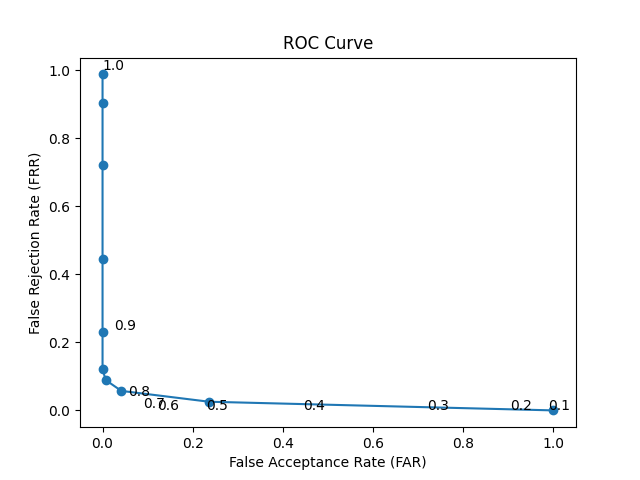
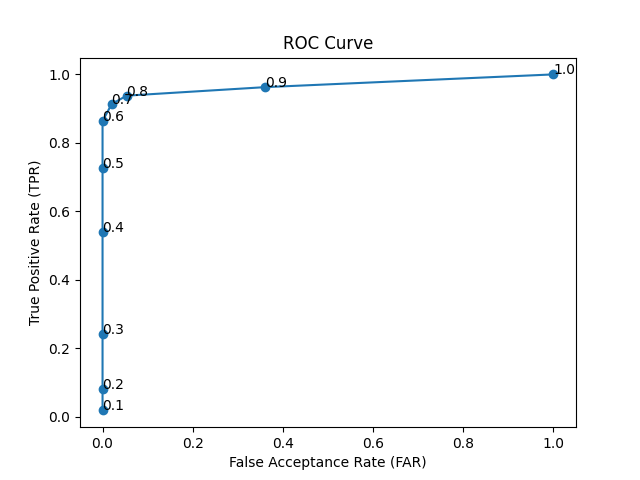
test 6

diff --git a/tools/test6.py b/tools/test6.py
@@ -1,22 +1,23 @@
 import asyncio
+import itertools as it
+import os
 from dataclasses import dataclass
 from random import choice
-import httpx
-import os
-import tqdm
-import itertools as it
-from faker import Faker
-from pathlib import Path
-from dotenv import load_dotenv
-from PersonsDataset import PersonDataset
-from helptools import register_user, login_user, clear_data
-import numpy as np
+
 import matplotlib.pyplot as plt
+import numpy as np
+import tqdm
+from dotenv import load_dotenv
+from faker import Faker
+
+from helptools import clear_data, login_user, register_user
+from PersonsDataset import PersonDataset
 
 load_dotenv()
 REGISTER_API_URL = "http://localhost:8000/register"
 LOGIN_API_URL = "http://localhost:8000/login"
 TOKEN = os.getenv("TOKEN")
+
 
 @dataclass
 class User:
@@ -25,6 +26,7 @@ class User:
     id: str
     register_imgs: list
     login_imgs: list
+
 
 async def register(dataset):
     fake = Faker()
@@ -36,17 +38,18 @@ async def register(dataset):
         register_imgs = images[3:]
         login_imgs = images[:3]
 
-        user = User(first_name, last_name, '', register_imgs, login_imgs)
+        user = User(first_name, last_name, "", register_imgs, login_imgs)
 
         response = await register_user(
             images=register_imgs, first_name=first_name, last_name=last_name
         )
 
-        user_id = response.json()['id']
+        user_id = response.json()["id"]
         user.id = user_id
-        
+
         users.append(user)
     return users
+
 
 async def test_correct_auth(users):
     results = []
@@ -56,6 +59,7 @@ async def test_correct_auth(users):
         results.append(result.json())
 
     return results
+
 
 async def test_incorrect_auth(users):
     results = []
@@ -70,19 +74,22 @@ async def test_incorrect_auth(users):
 
     return results
 
+
 def get_frr(auths, threshold):
     FR = 0
     for auth in auths:
-        if auth['score'] > threshold:
+        if auth["score"] > threshold:
             FR += 1
-    return FR/len(auths)
+    return FR / len(auths)
+
 
 def get_far(auths, threshold):
     FA = 0
     for auth in auths:
-        if auth['score'] <= threshold:
+        if auth["score"] <= threshold:
             FA += 1
-    return FA/len(auths)
+    return FA / len(auths)
+
 
 async def main():
     await clear_data()
@@ -104,18 +111,20 @@ async def main():
 
     far_values = [far[t] for t in sorted_thresh]
     frr_values = [frr[t] for t in sorted_thresh]
+    tpr_values = [1 - frr[t] for t in sorted_thresh]
 
     plt.figure()
-    plt.plot(far_values, frr_values, marker='o')
+    plt.plot(far_values, tpr_values, marker="o")
     plt.xlabel("False Acceptance Rate (FAR)")
-    plt.ylabel("False Rejection Rate (FRR)")
+    plt.ylabel("True Positive Rate (TPR)")
     plt.title("ROC Curve")
 
     for i, t in enumerate(sorted_thresh):
-        plt.annotate(f"{t:.1f}", (frr_values[i], far_values[i]))
+        plt.annotate(f"{t:.1f}", (far_values[i], tpr_values[i]))
 
     plt.savefig("roc_curve.png")
     plt.close()
+
 
 if __name__ == "__main__":
     asyncio.run(main())

diff --git a/tools/helptools.py b/tools/helptools.py
@@ -1,12 +1,8 @@
-import asyncio
-import httpx
 import os
-import tqdm
-import itertools as it
-from faker import Faker
 from pathlib import Path
+
+import httpx
 from dotenv import load_dotenv
-from PersonsDataset import PersonDataset
 
 load_dotenv()
 REGISTER_URL = "http://localhost:8000/register"
@@ -15,14 +11,39 @@ IDENTIFY_URL = "http://localhost:8000/identify"
 CLEAR_API_URL = "http://localhost:8000/clear"
 TOKEN = os.getenv("TOKEN")
 
+import io
+import os
+import tempfile
+import uuid
+
+from PIL import Image
+
+
+def add_jpeg_artifacts_to_tempfile(image_path, quality=30, iterations=1):
+    img = Image.open(image_path).convert("RGB")
+
+    for _ in range(iterations):
+        buffer = io.BytesIO()
+        img.save(buffer, format="JPEG", quality=quality)
+        buffer.seek(0)
+        img = Image.open(buffer).convert("RGB")
+
+    temp_dir = tempfile.gettempdir()
+    filename = f"jpeg_artifact_{uuid.uuid4().hex}.jpg"
+    filepath = os.path.join(temp_dir, filename)
+
+    img.save(filepath, format="JPEG", quality=quality)
+
+    return filepath
+
+
 async def clear_data():
-    headers = {
-        "Authorization": f"Bearer {TOKEN}"
-    }
+    headers = {"Authorization": f"Bearer {TOKEN}"}
 
     async with httpx.AsyncClient(timeout=10.0) as client:
         response = await client.get(CLEAR_API_URL, headers=headers)
         return response
+
 
 async def register_user(images, first_name, last_name):
     headers = {"Authorization": f"Bearer {TOKEN}"}
@@ -36,12 +57,15 @@ async def register_user(images, first_name, last_name):
     timeout = httpx.Timeout(120)
 
     async with httpx.AsyncClient(timeout=timeout) as client:
-        response = await client.post(REGISTER_URL, headers=headers, files=files, data=data)
+        response = await client.post(
+            REGISTER_URL, headers=headers, files=files, data=data
+        )
 
     for _, (name, f, _) in files:
         f.close()
 
     return response
+
 
 async def login_user(image_path, user_id):
     headers = {"Authorization": f"Bearer {TOKEN}"}
@@ -56,7 +80,9 @@ async def login_user(image_path, user_id):
         timeout = httpx.Timeout(120.0)
 
         async with httpx.AsyncClient(timeout=timeout) as client:
-            response = await client.post(LOGIN_URL, headers=headers, files=files, data=data)
+            response = await client.post(
+                LOGIN_URL, headers=headers, files=files, data=data
+            )
 
     return response
 
